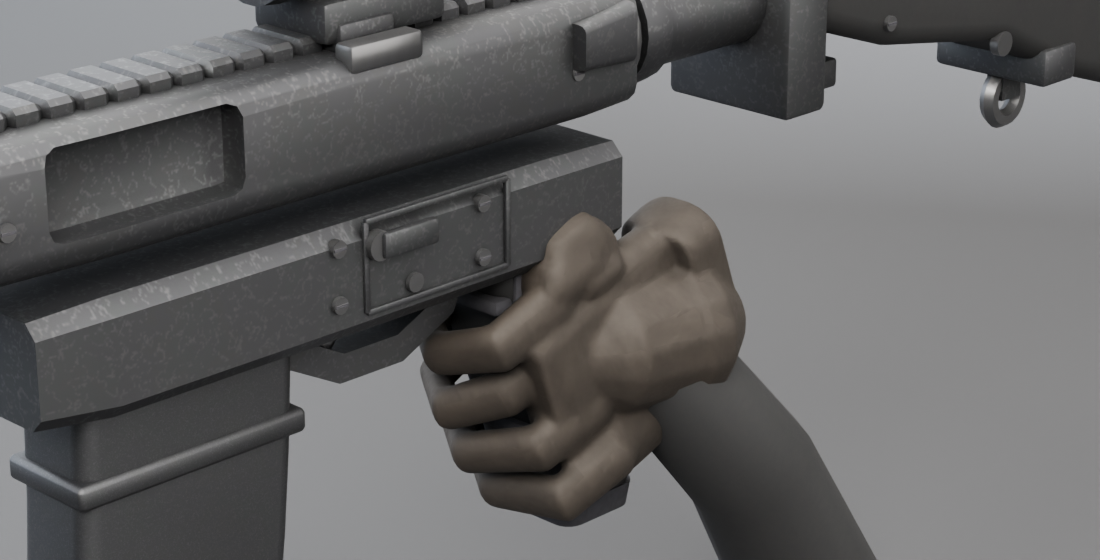
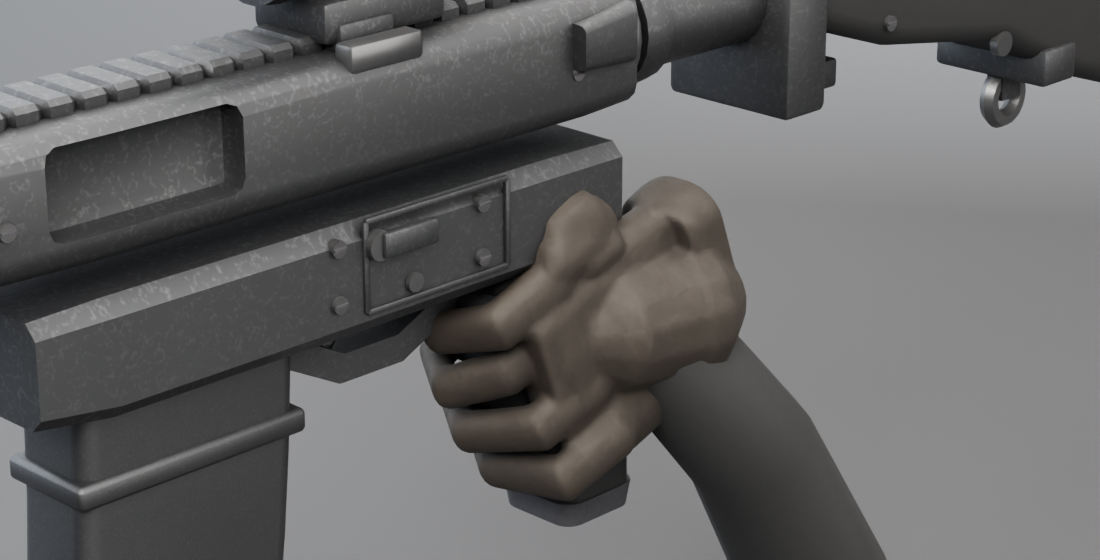
docs: 1.0.18 changelog and the refreshed lineup

diff --git a/CHANGELOG.md b/CHANGELOG.md
@@ -3,6 +3,26 @@
 All notable changes to KORDON. The project is versioned as one product: game
 rules, content, networking and art ship together.
 
+## 1.0.18 - 2026-10-30
+
+Hands that hold the weapon, and a review sheet that shows the whole thing.
+
+### Fixed
+
+* **The support hand floated under the handguard.** On the review sheet the support
+  hands hung with their fingers closed on air, a centimetre or two below the fore-end,
+  and the firing hands were further out still: the authored positions were
+  approximations and nothing checked them against the mesh. `seat_on_weapon` casts a ray
+  from the palm and moves the hand until it touches the surface; the build prints the
+  correction for every hand (2 mm to 22 mm) and fails above 75 mm, where the problem
+  would not be seating but a hand built for another weapon.
+* The first version of that seat snapped to the *nearest* surface point, which pulled
+  the VS9's support hand up onto the top of the receiver. The correction is vertical
+  only now, so a hand keeps the side of the weapon it was authored on.
+* **The sidearm and the shotgun were cropped** on the lineup: the shot was framed on the
+  weapon's bounds, and the forearm leaving the frame is wider than the weapon. It is
+  solved from the union of the weapon, the hands, the magazine and the trigger now.
+
 ## 1.0.17 - 2026-10-30
 
 Triggers, the trigger pull, and a reload the player can actually read.
